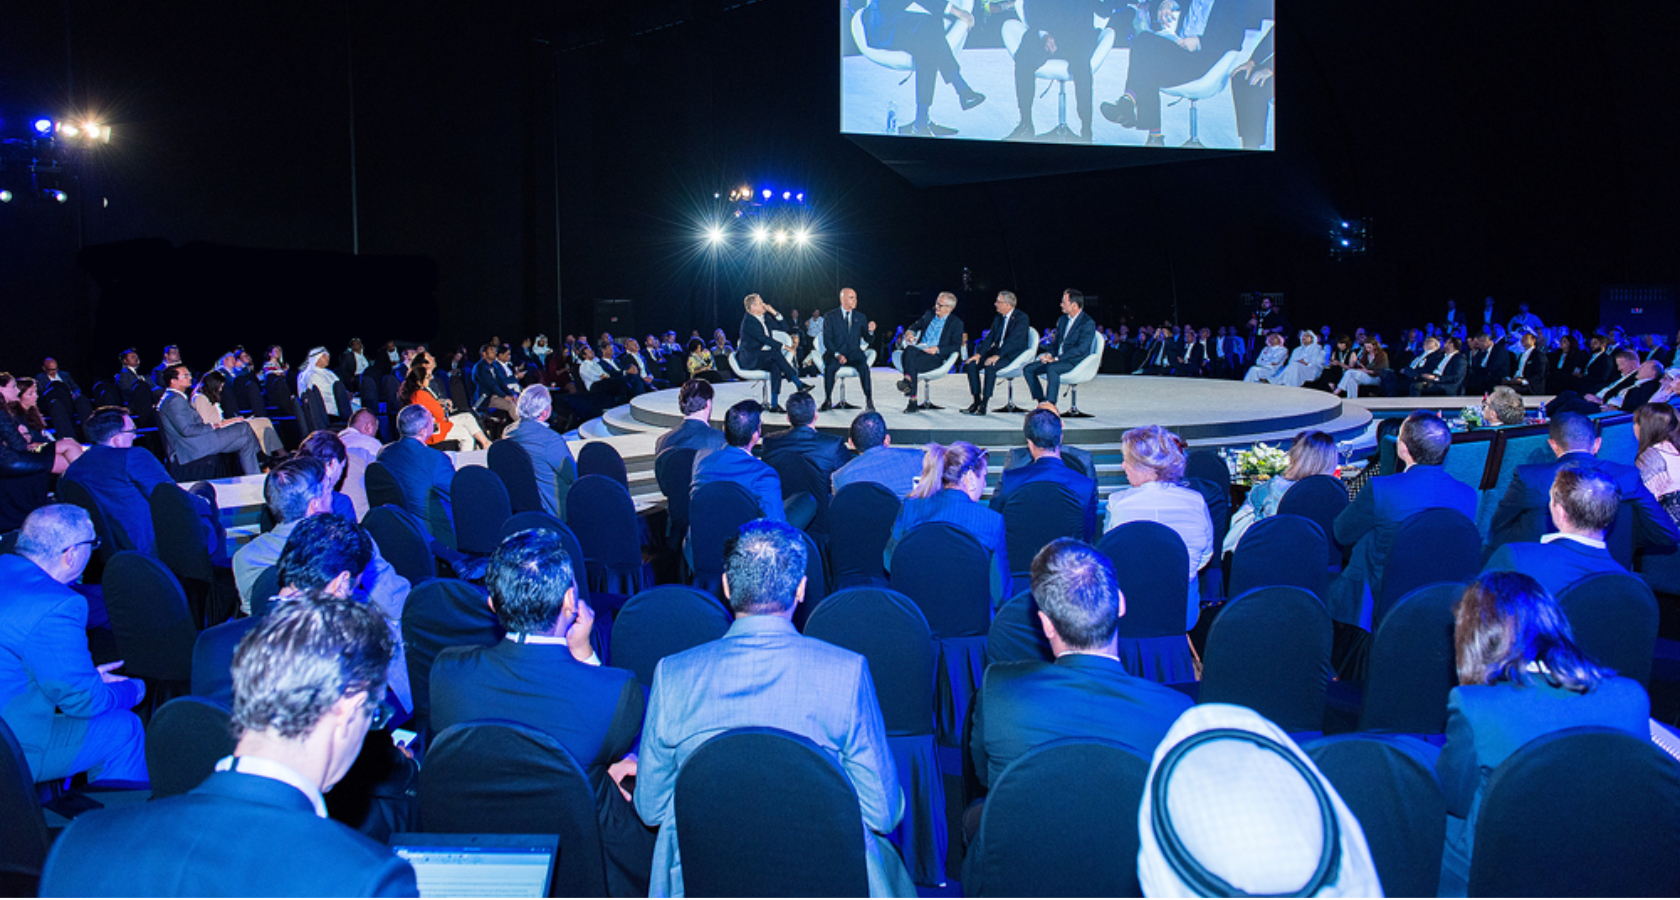
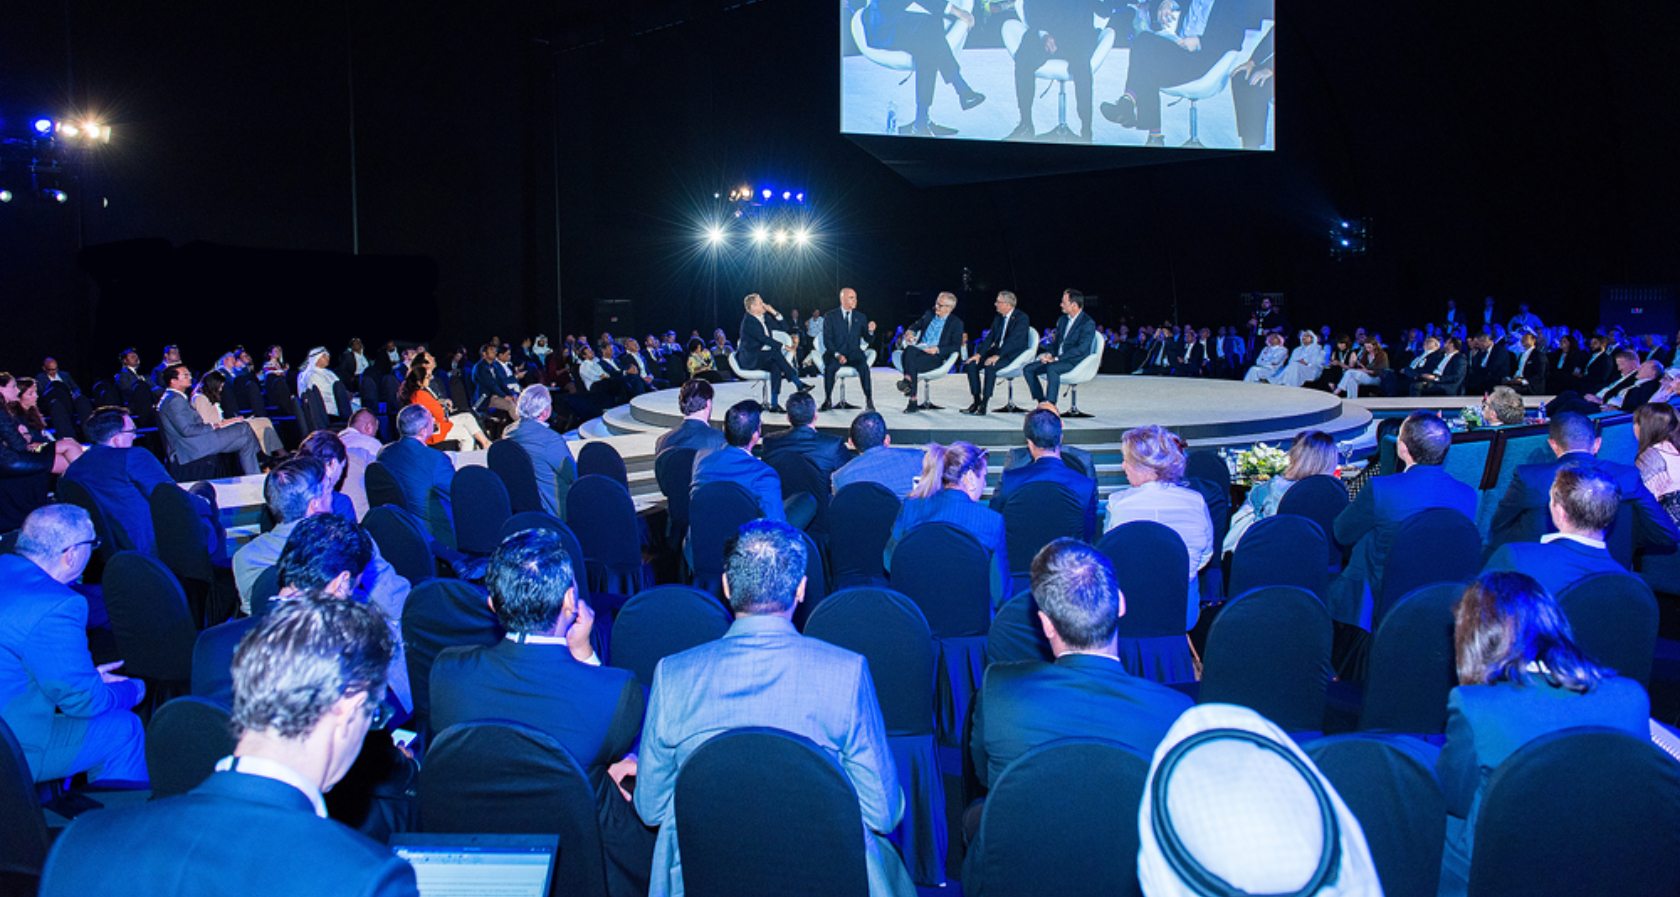
committed

diff --git a/pages/sa/nextgen-investment-forum.jsx b/pages/sa/nextgen-investment-forum.jsx
@@ -1,20 +1,23 @@
 import { useRef } from 'react'
 
-import { LenisScroller } from '../../fuselage/animation/lenis-scroller'
-import { motion, useScroll, useTransform } from "framer-motion"
-import { Pop, Slide, Fade } from "../../fuselage/theme/2023/ae/layout/animation/animation"
-import { Reveal } from "../../fuselage/animation/reveal"
-
 import Image from 'next/image'
 
-import { Header } from '../../fuselage/theme/2025/sa/common/header/header'
-import { Footer } from '../../fuselage/theme/2025/sa/common/footer/footer'
-
-import { PageHeroImage } from '../../fuselage/blocks/page-hero-image/page-hero-image'
-import { FhsLockup } from '../../fuselage/theme/2025/sa/components/logos/fhs-brand'
+import { LenisScroller } from '../../fuselage/animation/lenis-scroller'
+import { motion, useScroll, useTransform } from "framer-motion"
 
 import { SmartTicker } from 'react-smart-ticker'
 import parse from 'html-react-parser'
+
+import { Pop, Slide, Fade } from "../../fuselage/theme/2023/ae/layout/animation/animation"
+import { Reveal } from "../../fuselage/animation/reveal"
+
+import { Header } from '../../fuselage/theme/2025/sa/common/header/header'
+import { Footer } from '../../fuselage/theme/2025/sa/common/footer/footer'
+import { PageHeroImage } from '../../fuselage/blocks/page-hero-image/page-hero-image'
+import { FhsLockup } from '../../fuselage/theme/2025/sa/components/logos/fhs-brand'
+import { SpeakerCard } from '../../fuselage/components/speaker-card/speaker-card'
+import { ButtonKeyline } from '../../fuselage/theme/2024/world/components/button-keyline/button-keyline'
+
 
 import CSS from '../../fuselage/theme/2025/sa/css/nextgen-investment-forum.module.css'
 
@@ -199,6 +202,52 @@ export default function Page () {
                     </section>
                 </section>
 
+
+                <section className="block bg-theme">
+                    <div className="container center">
+                        <p className='fs-0'>Featured Speakers</p>
+                    </div>
+                    <div className="container center columns-3 gap-md maxw-60">
+                        <Pop>
+                            <SpeakerCard
+                            color={'c-accent'}
+                                photoUrl={'/assets/img/sa/nextgen-forum/abeer-green.jpg'}
+                                fullName={'Dr. Abeer A. Alamri'}
+                                jobTitle={'Strategic Planning and Monitoring Deputyship'}
+                                company={'Ministry of Tourism'}
+                            />
+                        </Pop>
+                        <Pop delay={.05}>
+                            <SpeakerCard
+                            color={'c-accent'}
+                                photoUrl={'/assets/img/sa/nextgen-forum/dr-fabien.jpg'}
+                                fullName={'Dr. Abeer A. Alamri'}
+                                jobTitle={'CEO'}
+                                company={'Riyadh School of Tourism and Hospitality'}
+                            />
+                        </Pop>
+                        <Pop delay={.1}>
+                            <SpeakerCard
+                            color={'c-accent'}
+                                photoUrl={'/assets/img/sa/nextgen-forum/aj-singh.jpg'}
+                                fullName={'A.J Singh'}
+                                jobTitle={'Founding Director'}
+                                company={'Hospitality and Tourism Management'}
+                            />
+                        </Pop>
+                    </div>
+                    <div className="container center">
+                        <Pop inline>
+                            <ButtonKeyline 
+                                href={'/sa/speakers'} 
+                                decal={'fs-5 fw-600'} 
+                                color={'var(--secondary)'}
+                            >
+                                View All Speakers
+                            </ButtonKeyline>
+                        </Pop>
+                    </div>
+                </section>
 
 
                 {/* components */}

diff --git a/pages/sa/agenda.jsx b/pages/sa/agenda.jsx
@@ -544,11 +544,8 @@ export default function Agenda ({ sessions, locations }) {
 
 
 			{/* THEMES */}
-			<section className="block bg-primary" style={{ position: 'relative', zIndex: 2}}>
+			<section className="block bg-primary no-print" style={{ position: 'relative', zIndex: 2}}>
 				<ThemesSlider data={THEMES_DATA} link={'/sa/themes'} linkLabel={'Learn more'} />
-				<div className="continer maxw-40">
-
-				</div>
 			</section>
 
 
@@ -558,10 +555,17 @@ export default function Agenda ({ sessions, locations }) {
 				<span id="agenda"/>
 
 				{/* INTRO */}
-                <div className="section mb-sm">
-                    <p className="fs-0 fw-500 c-secondary">2025 Agenda</p>
-					<div className="formatted mt-md">
+                <div className={`${CSS.titlebar} container`}>
+					<div className="formatted pb-sm">
+						<p className="fs-0 fw-500 c-secondary">2025 Agenda</p>
 						<p>Programme is subject to change.</p>
+					</div>
+
+					<div className="printButton no-print">
+						<button 
+							className={'button fs-5'}
+							onClick={ ()=> window.print() }
+						><PrinterIcon />&ensp;Print Agenda</button>
 					</div>
                 </div>
 
@@ -940,6 +944,28 @@ const SearchIcon = ({ color }) => {
 			<g transform="matrix(1,0,0,1,-2511,-135)">
 				<g id="icon-search" transform="matrix(0.515035,0,0,0.515035,2511.24,135.556)">
 					<path d="M15.697,31.349C17.503,31.349 19.216,31.058 20.838,30.477C22.46,29.895 23.944,29.084 25.29,28.044L33.873,36.673L36.627,33.873L28.044,25.29C29.084,23.944 29.895,22.46 30.477,20.838C31.058,19.216 31.349,17.503 31.349,15.697C31.349,13.525 30.936,11.49 30.109,9.593C29.283,7.696 28.166,6.036 26.759,4.613C25.351,3.19 23.684,2.065 21.756,1.239C19.859,0.413 17.839,0 15.697,0C13.525,0 11.49,0.413 9.593,1.239C7.696,2.065 6.036,3.19 4.613,4.613C3.19,6.036 2.065,7.696 1.239,9.593C0.413,11.49 0,13.525 0,15.697C0,17.839 0.413,19.859 1.239,21.756C2.065,23.684 3.19,25.351 4.613,26.759C6.036,28.166 7.696,29.283 9.593,30.109C11.49,30.936 13.525,31.349 15.697,31.349ZM15.697,3.947C17.319,3.947 18.834,4.253 20.241,4.865C21.679,5.477 22.926,6.311 23.982,7.367C25.038,8.422 25.887,9.669 26.529,11.107C27.141,12.546 27.447,14.076 27.447,15.697C27.447,17.319 27.141,18.834 26.529,20.241C25.887,21.679 25.038,22.926 23.982,23.982C22.926,25.038 21.679,25.887 20.241,26.529C18.834,27.141 17.319,27.447 15.697,27.447C14.076,27.447 12.546,27.141 11.107,26.529C9.669,25.887 8.422,25.038 7.367,23.982C6.311,22.926 5.477,21.679 4.865,20.241C4.253,18.834 3.947,17.319 3.947,15.697C3.947,14.076 4.253,12.546 4.865,11.107C5.477,9.669 6.311,8.422 7.367,7.367C8.422,6.311 9.669,5.477 11.107,4.865C12.546,4.253 14.076,3.947 15.697,3.947Z" style={{ fill: color ? color : 'var(--accent)', fillRule:'nonzero' }}/>
+				</g>
+			</g>
+		</svg>
+	)
+}
+
+const PrinterIcon = ({ color }) => {
+	return (
+		<svg width="16" height="16" viewBox="0 0 16 18" style={{ fillRule:`evenodd`, clipRule:`evenodd`, strokeMiterlimit:1.5 }}>
+			<g transform="matrix(1,0,0,1,-2615,-138)">
+				<g id="printer" transform="matrix(0.557918,0,0,0.557918,1290.56,6.44085)">
+					<path d="M2381.63,259.726L2375.8,259.726L2375.8,244.224L2400.43,244.224L2400.43,259.726L2394.6,259.726L2394.6,253.717L2381.63,253.717L2381.63,259.726Z" style={{ fill:`none`, stroke: color ? color : 'white', strokeWidth:1.79 }}/>
+					<g transform="matrix(0.526495,0,0,0.745724,1130.79,71.5936)">
+						<rect x="2375.8" y="244.224" width="24.631" height="15.502" style={{ fill:`none`, stroke: color ? color : 'white', strokeWidth:2.78 }}/>
+					</g>
+					<g transform="matrix(0.526495,0,0,0.327579,1130.79,159.143)">
+						<rect x="2375.8" y="244.224" width="24.631" height="15.502" style={{ fill:`none`, stroke: color ? color : 'white', strokeWidth:4.09 }}/>
+					</g>
+					<circle cx="2381.62" cy="248.903" r="0.906" style={{ fill: color ? color : 'white' }}/>
+					<g transform="matrix(1,0,0,1,2.95813,0)">
+						<circle cx="2381.62" cy="248.903" r="0.906" style={{ fill: color ? color : 'white' }}/>
+					</g>
 				</g>
 			</g>
 		</svg>

diff --git a/fuselage/theme/2025/sa/common/header/header.jsx b/fuselage/theme/2025/sa/common/header/header.jsx
@@ -72,7 +72,7 @@ export const Header = ({ compact, overlaid, inverse }) => {
                 />
             </span>
         
-            <header ref={hideEventsBarTrigger} className={`${CSS.layout} ${overlaid && CSS.overlaid} ${compact && CSS.compact}`}>
+            <header ref={hideEventsBarTrigger} className={`${CSS.layout} ${overlaid && CSS.overlaid} ${compact && CSS.compact} no-print`}>
 
                 <section className={CSS.brandWrapper}>
                     <div className={`${CSS.brand}`}>

diff --git a/fuselage/theme/2025/sa/common/footer/footer.jsx b/fuselage/theme/2025/sa/common/footer/footer.jsx
@@ -19,7 +19,7 @@ export const Footer = () => {
     const socialConnections = globals.global[2].socialConnections
 
     return (
-        <footer className="block bg-neutral-02" style={{ position: 'relative', overflow: 'hidden' }}>
+        <footer className="block bg-neutral-02 no-print" style={{ position: 'relative', overflow: 'hidden' }}>
             <img className={CSS.deco} src="/assets/theme/sa-2025/gfk-02.svg" alt=""/>
 
             <div className={`container columns-3 gap-md formatted`}>

diff --git a/css/app/agenda-sa-2025.module.css b/css/app/agenda-sa-2025.module.css
@@ -1,3 +1,11 @@
+@media(min-width:600px){
+    .titlebar {
+        display: flex;
+        align-items: flex-start;
+        justify-content: space-between;
+    }
+}
+
 /* LAYOUT –––––––––––––––––––––––––––––––––––––––––––––––––––––––––––––––––––––– */
 
 @media(max-width:799px){
